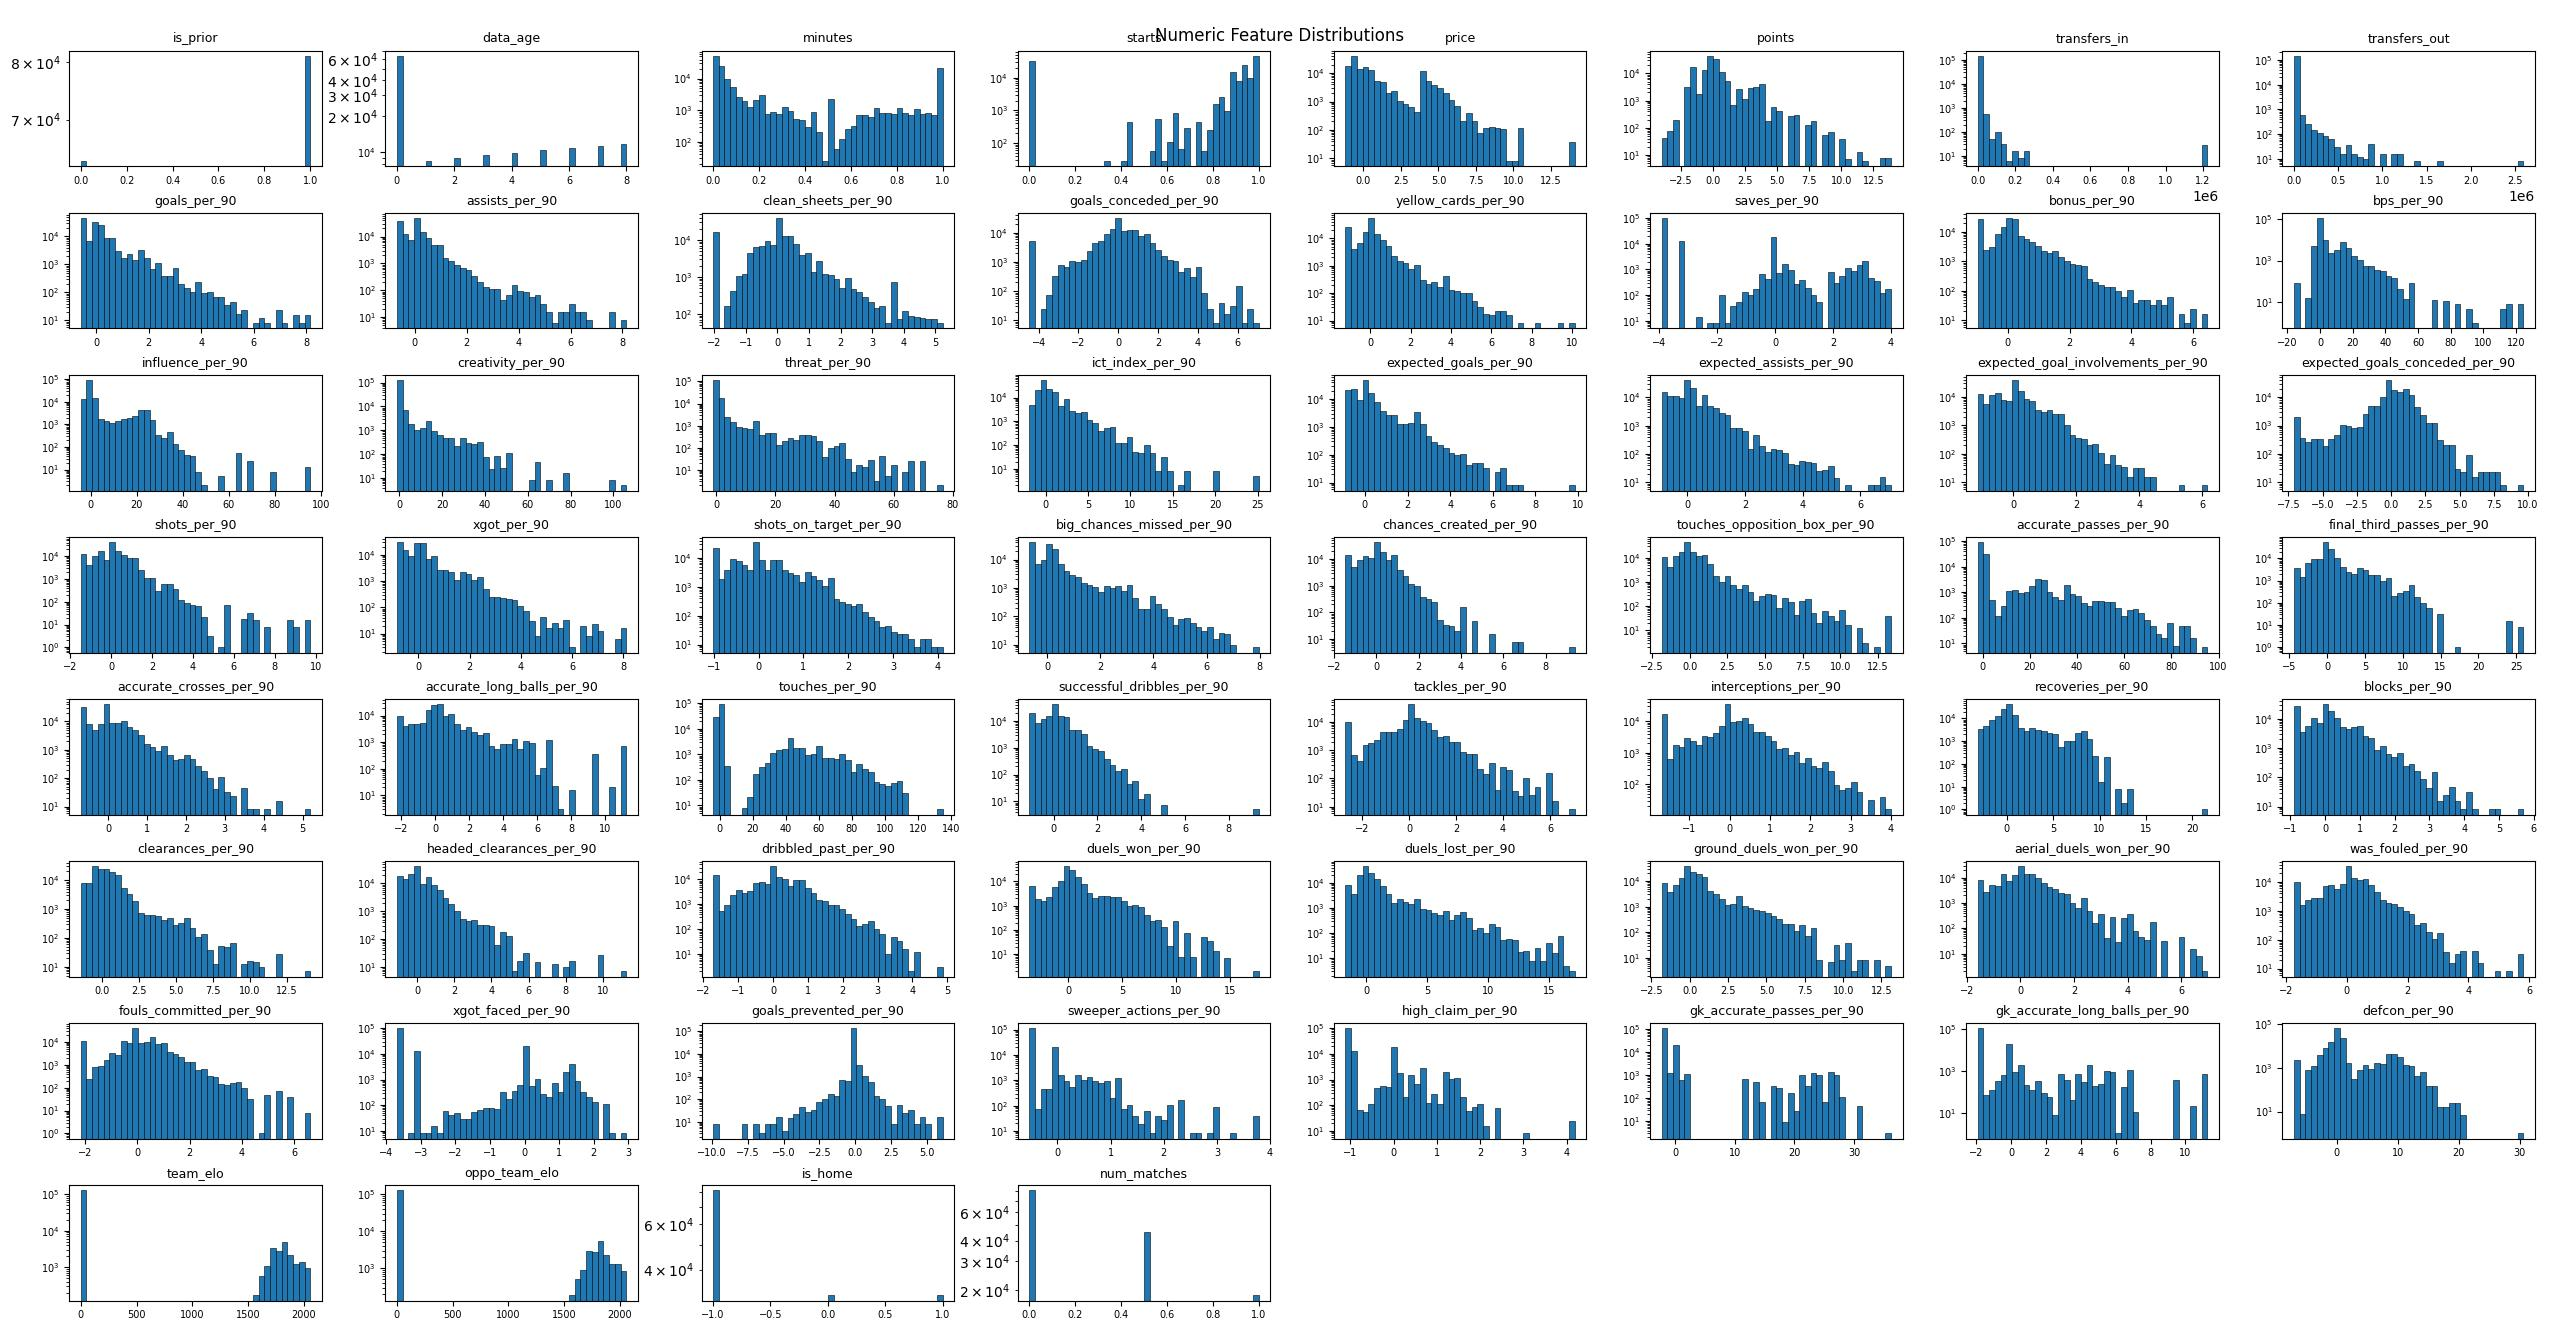
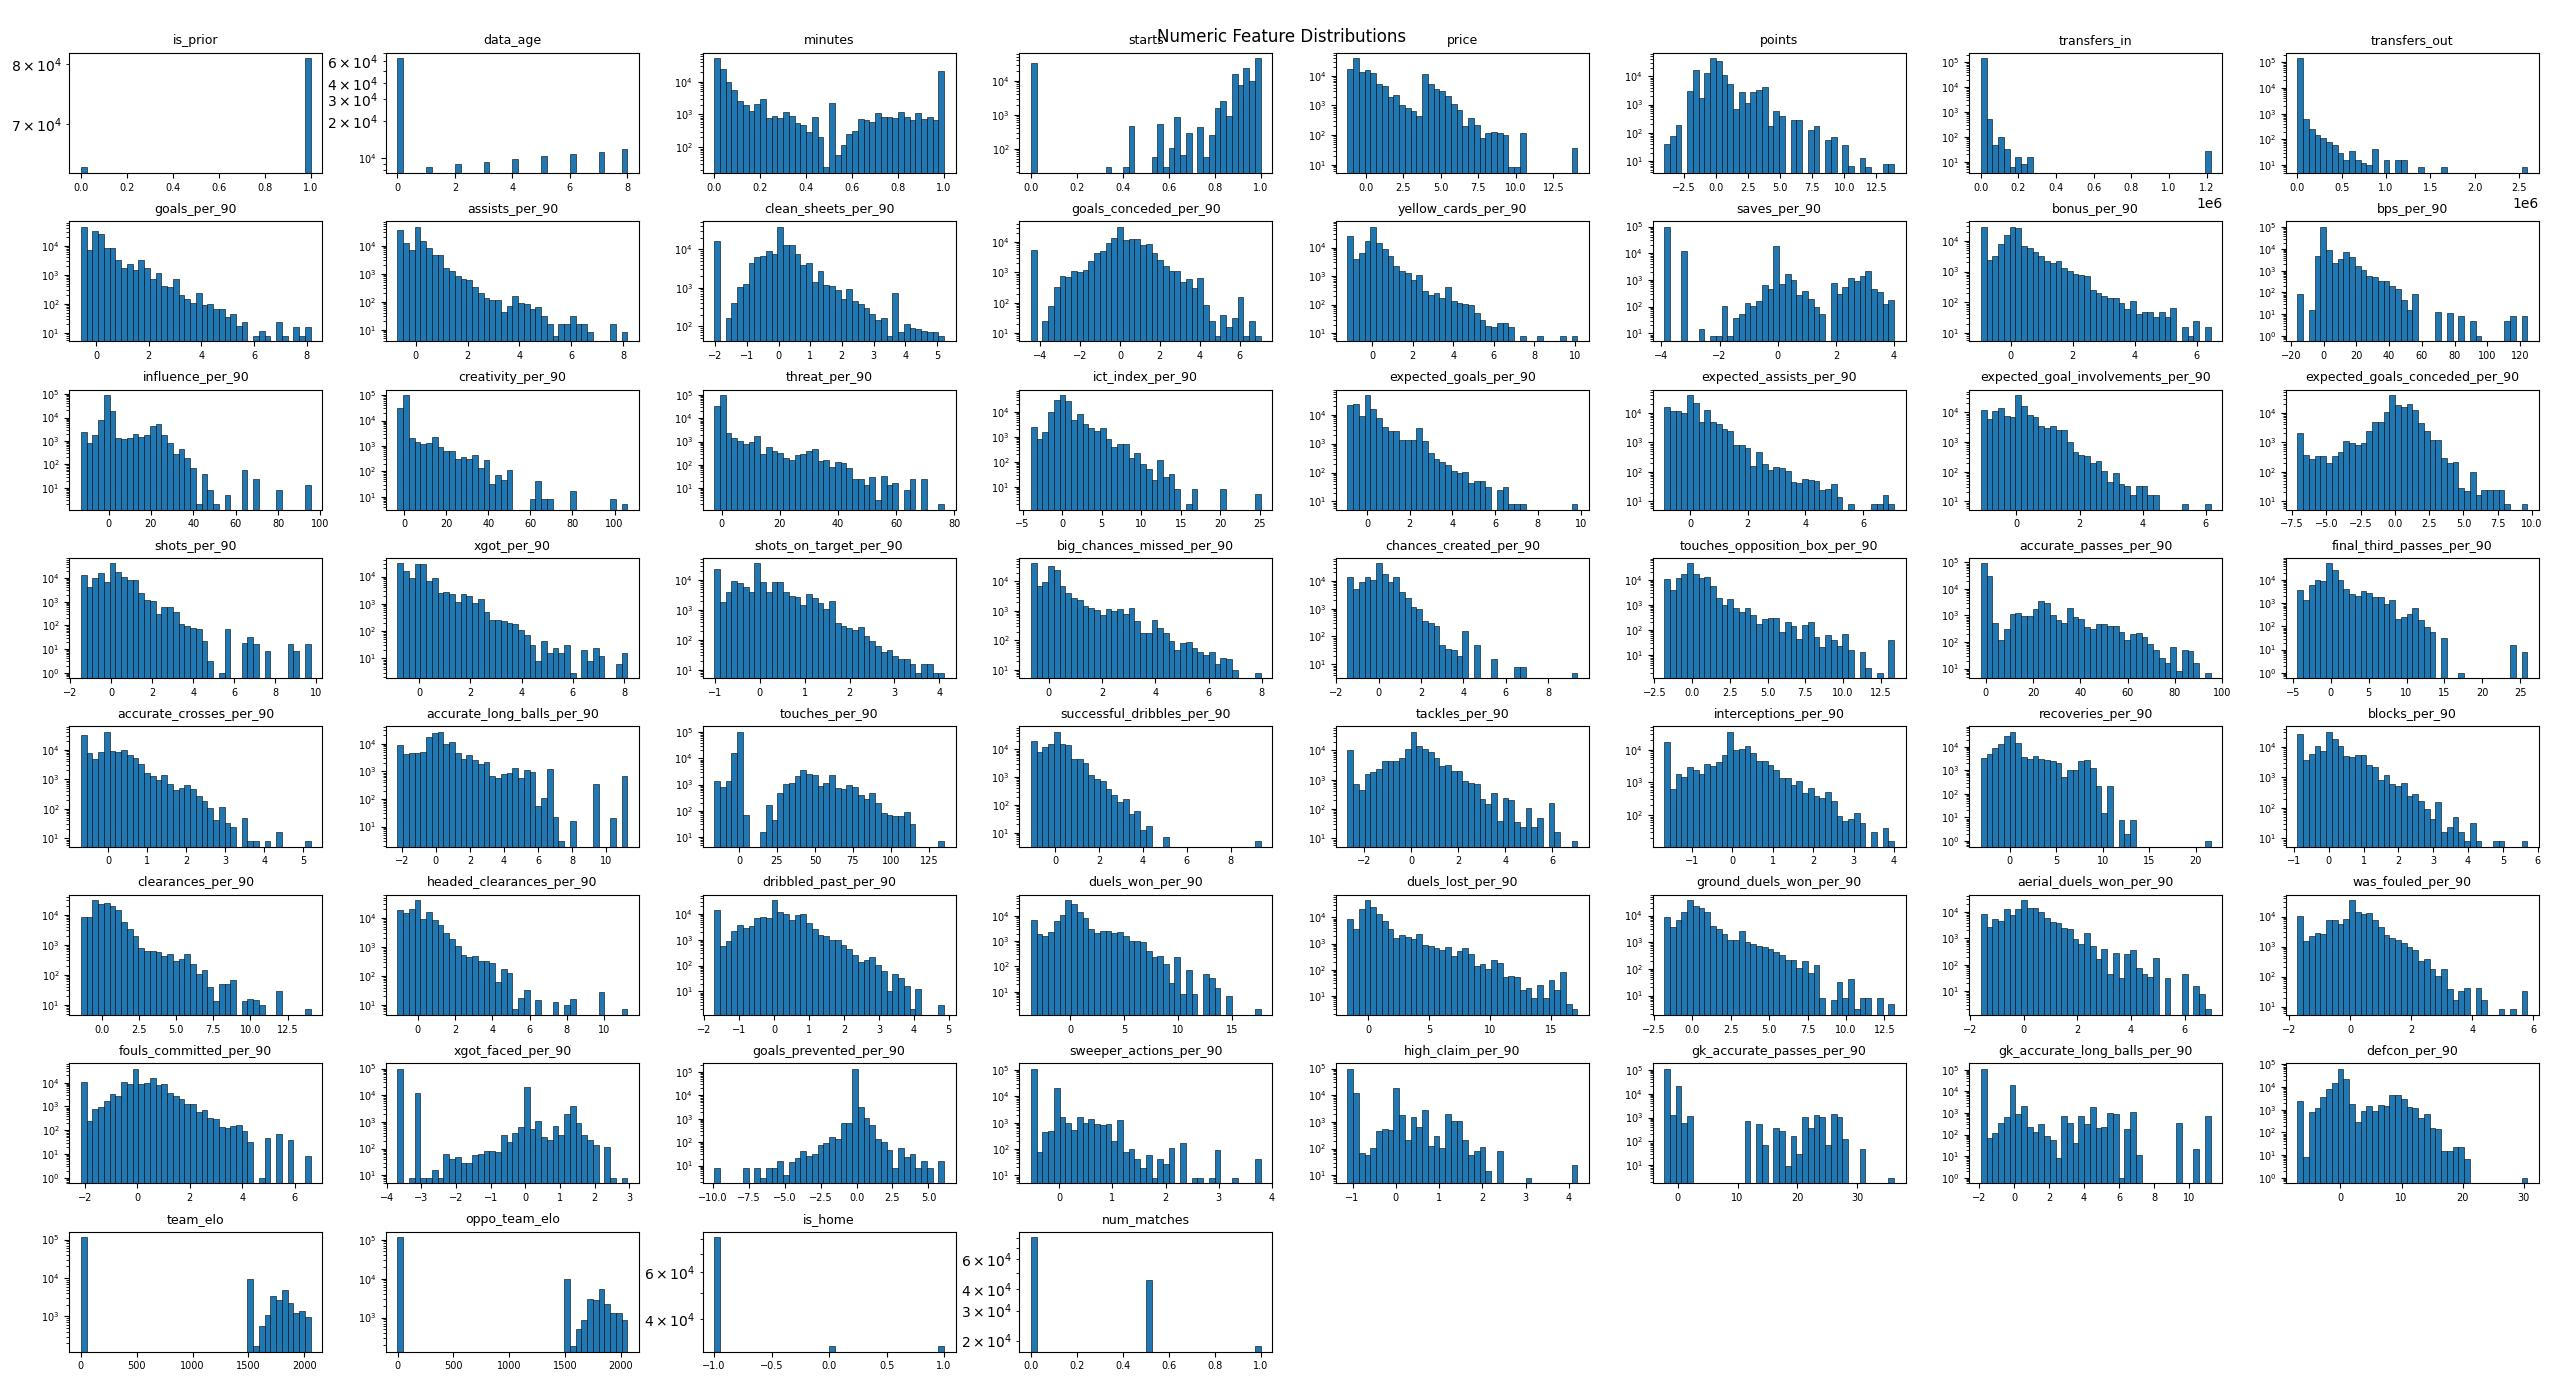
fixed presence mask bug, where presence mask features excluded from .transform, distributions much cleaner!!

diff --git a/fpl_bot/pipeline.py b/fpl_bot/pipeline.py
@@ -651,12 +651,18 @@ class FeatureScaler:
         x = x.clone()
         presence_mask = self._build_presence_mask(x).to(self.device)
 
+        # fit on present rows only so absent-row sentinels (e.g. per_90 = 0
+        # for players who didn't play) don't corrupt scaler statistics
         x_present = x[presence_mask]
+
+        # collapse [P, G, F] → [P*G, F] for transforming every row
+        p, g, f = x.shape
+        x_flat = x.view(p * g, f)
+
         for (mode, pos_group), scaler in self._scalers.items():
             feat_mask = self.scaling_masks[(mode, pos_group)]
 
             if pos_group is not None and position_ids is not None:
-                # fit only on rows matching the position group
                 pos_row_mask = self._build_position_row_mask(
                     presence_mask, position_ids, pos_group,
                 )
@@ -664,16 +670,16 @@ class FeatureScaler:
             else:
                 scaler.fit(x_present[:, feat_mask])
 
-            # transform ALL present rows with the fitted params
-            x_present[:, feat_mask] = scaler.transform(
-                x_present[:, feat_mask],
+            # transform ALL rows — absent rows still carry valid fixture
+            # data and must be on the same scale as present rows
+            x_flat[:, feat_mask] = scaler.transform(
+                x_flat[:, feat_mask],
             )
 
             param1, param2 = scaler.params
             self._append_params((mode, pos_group), param1, param2)
 
-        # write back scaled values for present rows
-        x[presence_mask] = x_present
+        x = x_flat.view(p, g, f)
 
         self._fitted = True
         return x, self.features.to_dict()
@@ -700,15 +706,15 @@ class FeatureScaler:
 
         self._validate_input(x)
         x = x.clone()
-        presence_mask = self._build_presence_mask(x).to(self.device)
-        x_present = x[presence_mask]
+
+        p, g, f = x.shape
+        x_flat = x.view(p * g, f)
 
         for key, scaler in self._scalers.items():
             feat_mask = self.scaling_masks[key]
-            x_present[:, feat_mask] = scaler.transform(x_present[:, feat_mask])
+            x_flat[:, feat_mask] = scaler.transform(x_flat[:, feat_mask])
 
-        x[presence_mask] = x_present
-        return x
+        return x_flat.view(p, g, f)
 
     def inverse(self, x: torch.Tensor) -> torch.Tensor:
         """
@@ -726,28 +732,27 @@ class FeatureScaler:
         self._validate_input(x)
         x = x.clone()
 
-        #TODO: check this, if presence feature is scaled, now min_value has changed...
-        presence_mask = self._build_presence_mask(x).to(self.device)
-        x_inv = x[presence_mask]
+        p, g, f = x.shape
+        x_flat = x.view(p * g, f)
 
-        # allow inverse to be called after fitting scalers, or with scaling parameters in feature dict
+        # allow inverse to be called after fitting scalers, or with
+        # scaling parameters stored in the feature dict
         for key, scaler in self._scalers.items():
             feat_mask = self.scaling_masks[key]
             if self._fitted:
-                x_inv[:, feat_mask] = scaler.inverse_transform(x_inv[:, feat_mask])
-
+                x_flat[:, feat_mask] = scaler.inverse_transform(
+                    x_flat[:, feat_mask],
+                )
             else:
-                # transpose so shape is [n_params, n_features], for broadcasting convenience
                 params = torch.tensor(
                     [s.scaling_params for s in self.specs_by_mode[key]],
                     dtype=torch.float32,
                 ).T
-                x_inv[:, feat_mask] = scaler.fit_inverse_from_params(
-                    x_inv[:, feat_mask], params,
+                x_flat[:, feat_mask] = scaler.fit_inverse_from_params(
+                    x_flat[:, feat_mask], params,
                 )
 
-        x[presence_mask] = x_inv
-        return x
+        return x_flat.view(p, g, f)
 
     #================================================
     # Private Helpers

diff --git a/fpl_bot/feature_registry.py b/fpl_bot/feature_registry.py
@@ -289,7 +289,7 @@ def _build_common_specs(
         name="influence_per_90",
 
         feature_type=FeatureType.SKEWED_POSITIVE,
-        scaling_mode=ScalingMode.ROBUST,
+        scaling_mode=ScalingMode.LOG_ROBUST,
         accumulation=AccumulationType.PER_90,
         temporal=True,
         source={DataSource.VAASTAV: "influence", DataSource.FCI: "influence"},
@@ -298,7 +298,7 @@ def _build_common_specs(
         name="creativity_per_90",
 
         feature_type=FeatureType.SKEWED_POSITIVE,
-        scaling_mode=ScalingMode.ROBUST,
+        scaling_mode=ScalingMode.LOG_ROBUST,
         accumulation=AccumulationType.PER_90,
         temporal=True,
         source={DataSource.VAASTAV: "creativity", DataSource.FCI: "creativity"},
@@ -307,7 +307,7 @@ def _build_common_specs(
         name="threat_per_90",
 
         feature_type=FeatureType.SKEWED_POSITIVE,
-        scaling_mode=ScalingMode.ROBUST,
+        scaling_mode=ScalingMode.LOG_ROBUST,
         accumulation=AccumulationType.PER_90,
         temporal=True,
         source={DataSource.VAASTAV: "threat", DataSource.FCI: "threat"},
@@ -316,7 +316,7 @@ def _build_common_specs(
         name="ict_index_per_90",
 
         feature_type=FeatureType.SKEWED_POSITIVE,
-        scaling_mode=ScalingMode.ROBUST,
+        scaling_mode=ScalingMode.LOG_ROBUST,
         accumulation=AccumulationType.PER_90,
         temporal=True,
         source={DataSource.VAASTAV: "ict_index", DataSource.FCI: "ict_index"},
@@ -378,8 +378,8 @@ def _build_common_specs(
     #   • Most Opta counts are non-negative and right-skewed → LOG_ROBUST
     #   • goals_prevented_per_90 can be negative (GK conceded more than
     #     expected) → ROBUST (no log, which would break on negatives)
-    #   • BPS-like composites (influence, etc.) can have large range
-    #     → ROBUST handles outliers without needing log
+    #   • BPS-like composites (influence, creativity, threat, ict_index)
+    #     have extreme right tails → LOG_ROBUST compresses the tail
 
     # -- Attack --
     FeatureSpec(
@@ -480,7 +480,7 @@ def _build_common_specs(
         name="touches_per_90",
 
         feature_type=FeatureType.SKEWED_POSITIVE,
-        scaling_mode=ScalingMode.ROBUST,
+        scaling_mode=ScalingMode.LOG_ROBUST,
         accumulation=AccumulationType.PER_90,
         temporal=True,
         source={DataSource.OPTA: "touches"},

diff --git a/fpl_bot/sequencer.py b/fpl_bot/sequencer.py
@@ -17,6 +17,17 @@ from .priors import PriorData
 
 logger = logging.getLogger(__name__)
 
+# Elo baseline used for prior timesteps where no fixture data exists.
+# Prior rows need a neutral elo value rather than 0 (which would be ~7σ
+# below the real distribution and corrupt scaler statistics).  League mean
+# maps to approximately zero after standardisation, giving the model a
+# "no information" signal that is_prior=1 can gate on.
+_ELO_LEAGUE_MEAN = 1500.0
+
+# Feature names that carry Elo ratings — used by _build_prior_fixtures
+# to assign the league mean instead of the default zero sentinel.
+_ELO_FEATURES = frozenset({"team_elo", "oppo_team_elo"})
+
 
 class SeasonSequencer:
     """
@@ -123,10 +134,23 @@ class SeasonSequencer:
         prior_fixture_row = {}
         for code in self.features._spec_by_name["team_code"].categories:
             prior_fixture_row[code] = {
-                feature: (code if feature == "team_code" else -1 if feature == "is_home" else 0)
+                feature: self._prior_fixture_value(feature, code)
                 for feature in self.features.output_columns_for([DataSource.FIXTURE, DataSource.FIXINGESTER])
             }
         return prior_fixture_row
+
+    @staticmethod
+    def _prior_fixture_value(feature: str, team_code: int) -> float:
+        """Return the default value for a single fixture feature in a prior row."""
+        if feature == "team_code":
+            return team_code
+        if feature == "is_home":
+            return -1
+        # Elo features use the league-mean baseline so they sit near zero
+        # after standardisation, rather than injecting a false outlier signal.
+        if feature in _ELO_FEATURES:
+            return _ELO_LEAGUE_MEAN
+        return 0
 
     def _init_fixture_cache(self) -> "SeasonSequencer":
         """Load fixtures to cache on initialisation. Use _update_team_elo to update future fixture elos."""

diff --git a/fpl_bot/main.py b/fpl_bot/main.py
@@ -385,7 +385,7 @@ def main():
     fig.tight_layout(pad=2.0, w_pad=1.5, h_pad=2.0)
     plt.show()
     plot_save = _PROJECT_ROOT / "Plots"  
-    fig.savefig(plot_save / "positional_mask_scaled_data25-26.jpeg")
+    fig.savefig(plot_save / "updated_masking_scaled_data25-26.jpeg")
 
 """    # ─── 5. Training loop ───
 
